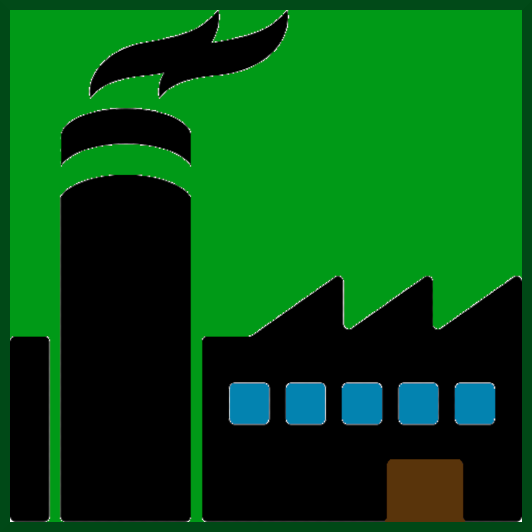
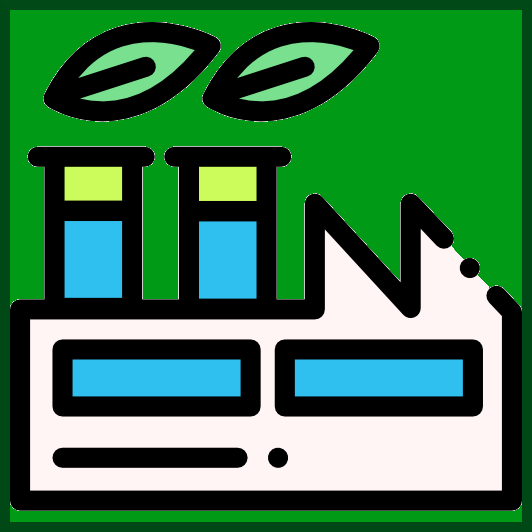
látszódjon melyik mező van kijelölve, grafika lecserélése/hozzáadása, már mindenhez van grafika ami a 2. mérföldkőhöz kell

diff --git a/src/UrbanTycoon/City.java b/src/UrbanTycoon/City.java
@@ -569,13 +569,13 @@ class City {
         
         // The field is free, have enough money -> build it:
         if (playerBuildItClass == Road.class) {
-            selectedField.build(new Road(price, getAnnualFee(price), selectedField.getX(), selectedField.getY(), WIDTH, HEIGHT, new ImageIcon("data/graphics/road.png").getImage()));                          // TODO: x, y, width, height, image
+            selectedField.build(new Road(price, getAnnualFee(price), selectedField.getX(), selectedField.getY(), WIDTH, HEIGHT, new ImageIcon("data/graphics/road.png").getImage()));                          
         } else if (playerBuildItClass == Stadium.class) {
-            selectedField.build(new Stadium(price, getAnnualFee(price), RADIUS, selectedField.getX(), selectedField.getY(), WIDTH, HEIGHT, new ImageIcon("data/graphics/cell.png").getImage()));         // TODO: x, y, width, height, image
+            selectedField.build(new Stadium(price, getAnnualFee(price), RADIUS, selectedField.getX(), selectedField.getY(), WIDTH, HEIGHT, new ImageIcon("data/graphics/stadium.png").getImage()));         
         } else if  (playerBuildItClass == PoliceStation.class) {
-            selectedField.build(new PoliceStation(price, getAnnualFee(price), RADIUS, selectedField.getX(), selectedField.getY(), WIDTH, HEIGHT, new ImageIcon("data/graphics/cell.png").getImage()));   // TODO: x, y, width, height, image
+            selectedField.build(new PoliceStation(price, getAnnualFee(price), RADIUS, selectedField.getX(), selectedField.getY(), WIDTH, HEIGHT, new ImageIcon("data/graphics/policeStation.png").getImage()));   
         } else if  (playerBuildItClass == FireStation.class) {
-            selectedField.build(new FireStation(price, getAnnualFee(price), RADIUS, selectedField.getX(), selectedField.getY(), WIDTH, HEIGHT, new ImageIcon("data/graphics/cell.png").getImage()));     // TODO: x, y, width, height, image
+            selectedField.build(new FireStation(price, getAnnualFee(price), RADIUS, selectedField.getX(), selectedField.getY(), WIDTH, HEIGHT, new ImageIcon("data/graphics/policeStation.png").getImage()));     
         }
         
         budget -= price;
@@ -591,11 +591,11 @@ class City {
         if (selectedField == null || !selectedField.isFree())    return;
         if (!Zone.class.isAssignableFrom(zoneClass))  throw new IllegalArgumentException("Selected zone class must be Zone subclass!");
         if (zoneClass == ResidentialZone.class) {
-            selectedField.setBuilding(new ResidentialZone(1.0, residentCapacity, zonePrice, tax, REFUND, 0.0, selectedField.getX(), selectedField.getY(), WIDTH, HEIGHT, new ImageIcon("data/graphics/residentialZone.png").getImage()));    // TODO: x, y, width, height, image
+            selectedField.setBuilding(new ResidentialZone(1.0, residentCapacity, zonePrice, tax, REFUND, 0.0, selectedField.getX(), selectedField.getY(), WIDTH, HEIGHT, new ImageIcon("data/graphics/residentialZone.png").getImage()));    
         } else if (zoneClass == IndustrialZone.class) {
-            selectedField.setBuilding(new IndustrialZone(workplaceCapacity, zonePrice, tax, REFUND, 0.0, selectedField.getX(), selectedField.getY(), WIDTH, HEIGHT, new ImageIcon("data/graphics/industrialZone.png").getImage()));                   // TODO: x, y, width, height, image
+            selectedField.setBuilding(new IndustrialZone(workplaceCapacity, zonePrice, tax, REFUND, 0.0, selectedField.getX(), selectedField.getY(), WIDTH, HEIGHT, new ImageIcon("data/graphics/industrialZone.png").getImage()));                   
         } else if (zoneClass == ServiceZone.class) {
-            selectedField.setBuilding(new ServiceZone(workplaceCapacity, zonePrice, tax, REFUND, 0.0, selectedField.getX(), selectedField.getY(), WIDTH, HEIGHT, new ImageIcon("data/graphics/serviceZone.png").getImage()));                      // TODO: x, y, width, height, image
+            selectedField.setBuilding(new ServiceZone(workplaceCapacity, zonePrice, tax, REFUND, 0.0, selectedField.getX(), selectedField.getY(), WIDTH, HEIGHT, new ImageIcon("data/graphics/serviceZone.png").getImage()));                     
         }
         
         budget -= zonePrice;

diff --git a/src/UrbanTycoon/GameEngine.java b/src/UrbanTycoon/GameEngine.java
@@ -54,6 +54,9 @@ class GameEngine extends JPanel{
     private Timer gameTickTimer;
     private final JButton pauseButton, timeSlowButton, timeAccButton, taxUpButton, taxDownButton, destroyButton, nominateIndButton, nominateResButton, nominateSerButton, buildRoadButton, buildStadiumButton, buildPSButton;
     private final JLabel moneyLabel,dateLabel;
+    private int prevSelectedFieldX = -1;
+    private int prevSelectedFieldY = -1;
+
 //----------------------------
     //fv-ek
 //-----------------------------
@@ -198,7 +201,24 @@ class GameEngine extends JPanel{
         fieldIndexY = (int)Math.floor(mouseY / (double)HEIGHT)-1;
         
         if(fieldIndexX >=0 && fieldIndexX < FIELDCOLSNUM && fieldIndexY >= 0 && fieldIndexY < FIELDROWSNUM)
+            if (prevSelectedFieldX != -1 && prevSelectedFieldY != -1) { // ha már van selected Field
+                if (city.getFields()[prevSelectedFieldY][prevSelectedFieldX].isFree()) {
+                    city.getFields()[prevSelectedFieldY][prevSelectedFieldX].unselect();
+                } else {
+                    city.getFields()[prevSelectedFieldY][prevSelectedFieldX].getBuilding().unselect();
+                }
+            }
+            
             city.fieldSelect(fieldIndexX,fieldIndexY);
+            if (city.getFields()[fieldIndexY][fieldIndexX].isFree()) {
+                city.getFields()[fieldIndexY][fieldIndexX].select();
+            } else {
+                city.getFields()[fieldIndexY][fieldIndexX].getBuilding().select();
+            }
+            
+            // elmenteni x, y indexeket, hogy legközelebbi kiválasztáskor visszarakja unselected-re
+            prevSelectedFieldX = fieldIndexX;
+            prevSelectedFieldY = fieldIndexY;
     }
     
     // itt minden a ( city.selectedField : Field )-del dolgozik

diff --git a/src/UrbanTycoon/ServiceZone.java b/src/UrbanTycoon/ServiceZone.java
@@ -5,13 +5,24 @@
 package UrbanTycoon;
 
 import java.awt.Image;
+import javax.swing.ImageIcon;
 
 /**
  *
  * @author Felhasználó
  */
 public class ServiceZone extends Workplace{
-    public ServiceZone(int capacity, int selectPrice, int annualTax, double refund, double chanceOfFire,int x,int y,int width, int height,Image image){
+    public ServiceZone(int capacity, int selectPrice, int annualTax, double refund, double chanceOfFire,int x,int y,int width, int height,Image image) {
         super(capacity, selectPrice, annualTax, refund, chanceOfFire, x, y, width, height, image);
+    }
+    
+    @Override
+    protected void select() {
+        image = new ImageIcon("data/graphics/selectedServiceZone.png").getImage();
+    }
+
+    @Override
+    protected void unselect() {
+        image = new ImageIcon("data/graphics/serviceZone.png").getImage();
     }
 }

diff --git a/src/UrbanTycoon/IndustrialZone.java b/src/UrbanTycoon/IndustrialZone.java
@@ -5,6 +5,7 @@
 package UrbanTycoon;
 
 import java.awt.Image;
+import javax.swing.ImageIcon;
 
 /**
  *
@@ -13,5 +14,15 @@ import java.awt.Image;
 public class IndustrialZone extends Workplace{
     public IndustrialZone(int capacity, int selectPrice, int annualTax, double refund, double chanceOfFire, int x, int y, int width, int height, Image image){
         super(capacity, selectPrice, annualTax, refund, chanceOfFire*2, x, y, width, height, image);
+    }
+
+    @Override
+    protected void select() {
+        image = new ImageIcon("data/graphics/selectedIndustrialZone.png").getImage();
+    }
+
+    @Override
+    protected void unselect() {
+        image = new ImageIcon("data/graphics/industrialZone.png").getImage();
     }
 }

diff --git a/src/UrbanTycoon/PoliceStation.java b/src/UrbanTycoon/PoliceStation.java
@@ -5,6 +5,7 @@
 package UrbanTycoon;
 
 import java.awt.Image;
+import javax.swing.ImageIcon;
 
 /**
  *
@@ -13,5 +14,15 @@ import java.awt.Image;
 public class PoliceStation extends ServiceBuilding {
     public PoliceStation(int buildingPrice, int annualFee,int radius,int x,int y,int width, int height,Image image) {
         super(buildingPrice, annualFee, radius, x, y, width, height, image);
+    }
+
+    @Override
+    protected void select() {
+        image = new ImageIcon("data/graphics/selectedPoliceStation.png").getImage();
+    }
+
+    @Override
+    protected void unselect() {
+        image = new ImageIcon("data/graphics/policeStation.png").getImage();
     }
 }

diff --git a/src/UrbanTycoon/Stadium.java b/src/UrbanTycoon/Stadium.java
@@ -5,6 +5,7 @@
 package UrbanTycoon;
 
 import java.awt.Image;
+import javax.swing.ImageIcon;
 
 /**
  *
@@ -14,6 +15,16 @@ public class Stadium extends ServiceBuilding{
     
     public Stadium(int buildingPrice, int annualFee, int radius, int x, int y, int width, int height, Image image) {
         super(buildingPrice, annualFee, radius, x, y, width, height, image);
+    }
+
+    @Override
+    protected void select() {
+        image = new ImageIcon("data/graphics/selectedStadium.png").getImage();
+    }
+
+    @Override
+    protected void unselect() {
+        image = new ImageIcon("data/graphics/stadium.png").getImage();
     }
     
 }

diff --git a/src/UrbanTycoon/FireStation.java b/src/UrbanTycoon/FireStation.java
@@ -19,4 +19,14 @@ public class FireStation extends ServiceBuilding{
     public FireEngine getFireEngine() {
         return fireEngine;
     }
+
+    @Override
+    protected void select() {
+        throw new UnsupportedOperationException("Not supported yet."); // Generated from nbfs://nbhost/SystemFileSystem/Templates/Classes/Code/GeneratedMethodBody
+    }
+
+    @Override
+    protected void unselect() {
+        throw new UnsupportedOperationException("Not supported yet."); // Generated from nbfs://nbhost/SystemFileSystem/Templates/Classes/Code/GeneratedMethodBody
+    }
 }

diff --git a/src/UrbanTycoon/Forest.java b/src/UrbanTycoon/Forest.java
@@ -42,4 +42,14 @@ public class Forest extends PlayerBuildIt{
     protected int destroy() {
         return buildingPrice;
     }
+
+    @Override
+    protected void select() {
+        throw new UnsupportedOperationException("Not supported yet."); // Generated from nbfs://nbhost/SystemFileSystem/Templates/Classes/Code/GeneratedMethodBody
+    }
+
+    @Override
+    protected void unselect() {
+        throw new UnsupportedOperationException("Not supported yet."); // Generated from nbfs://nbhost/SystemFileSystem/Templates/Classes/Code/GeneratedMethodBody
+    }
 }

diff --git a/src/UrbanTycoon/ResidentialZone.java b/src/UrbanTycoon/ResidentialZone.java
@@ -5,6 +5,7 @@
 package UrbanTycoon;
 
 import java.awt.Image;
+import javax.swing.ImageIcon;
 
 /**
  *
@@ -29,6 +30,16 @@ class ResidentialZone extends Zone {
 
     public double getMoveInChance() {
         return moveInChance;
+    }
+
+    @Override
+    protected void select() {
+        image = new ImageIcon("data/graphics/selectedResidentialZone.png").getImage();
+    }
+
+    @Override
+    protected void unselect() {
+        image = new ImageIcon("data/graphics/residentialZone.png").getImage();
     }
     
 }

diff --git a/src/UrbanTycoon/Field.java b/src/UrbanTycoon/Field.java
@@ -5,6 +5,7 @@
 package UrbanTycoon;
 
 import java.awt.Image;
+import javax.swing.ImageIcon;
 
 /**
  *
@@ -60,5 +61,13 @@ class Field extends Sprite {
     public void build(Buildable newBuilding) {
         if (!this.free)  return;
         setBuilding(newBuilding);
+    }
+    
+    public void select() {
+        image = new ImageIcon("data/graphics/selectedField.png").getImage();    // hex: #FF9E2A
+    }
+
+    public void unselect() {
+        image = new ImageIcon("data/graphics/field.png").getImage();
     }
 }

diff --git a/src/UrbanTycoon/Road.java b/src/UrbanTycoon/Road.java
@@ -5,6 +5,7 @@
 package UrbanTycoon;
 
 import java.awt.Image;
+import javax.swing.ImageIcon;
 
 /**
  *
@@ -24,5 +25,15 @@ public class Road extends PlayerBuildIt{
             return buildingPrice;
             /* TODO: destroy */
         }  
+    }
+
+    @Override
+    protected void select() {
+        image = new ImageIcon("data/graphics/selectedRoad.png").getImage();
+    }
+
+    @Override
+    protected void unselect() {
+        image = new ImageIcon("data/graphics/road.png").getImage();
     }
 }

diff --git a/src/UrbanTycoon/Buildable.java b/src/UrbanTycoon/Buildable.java
@@ -17,6 +17,8 @@ abstract class Buildable extends Sprite {
     public void progressBuilding(int progressInDays){}
     
     protected abstract int destroy();
+    protected abstract void select();   // hex: #FF9E2A
+    protected abstract void unselect();
     
     protected int getAnnualFee() {
         return 0;
